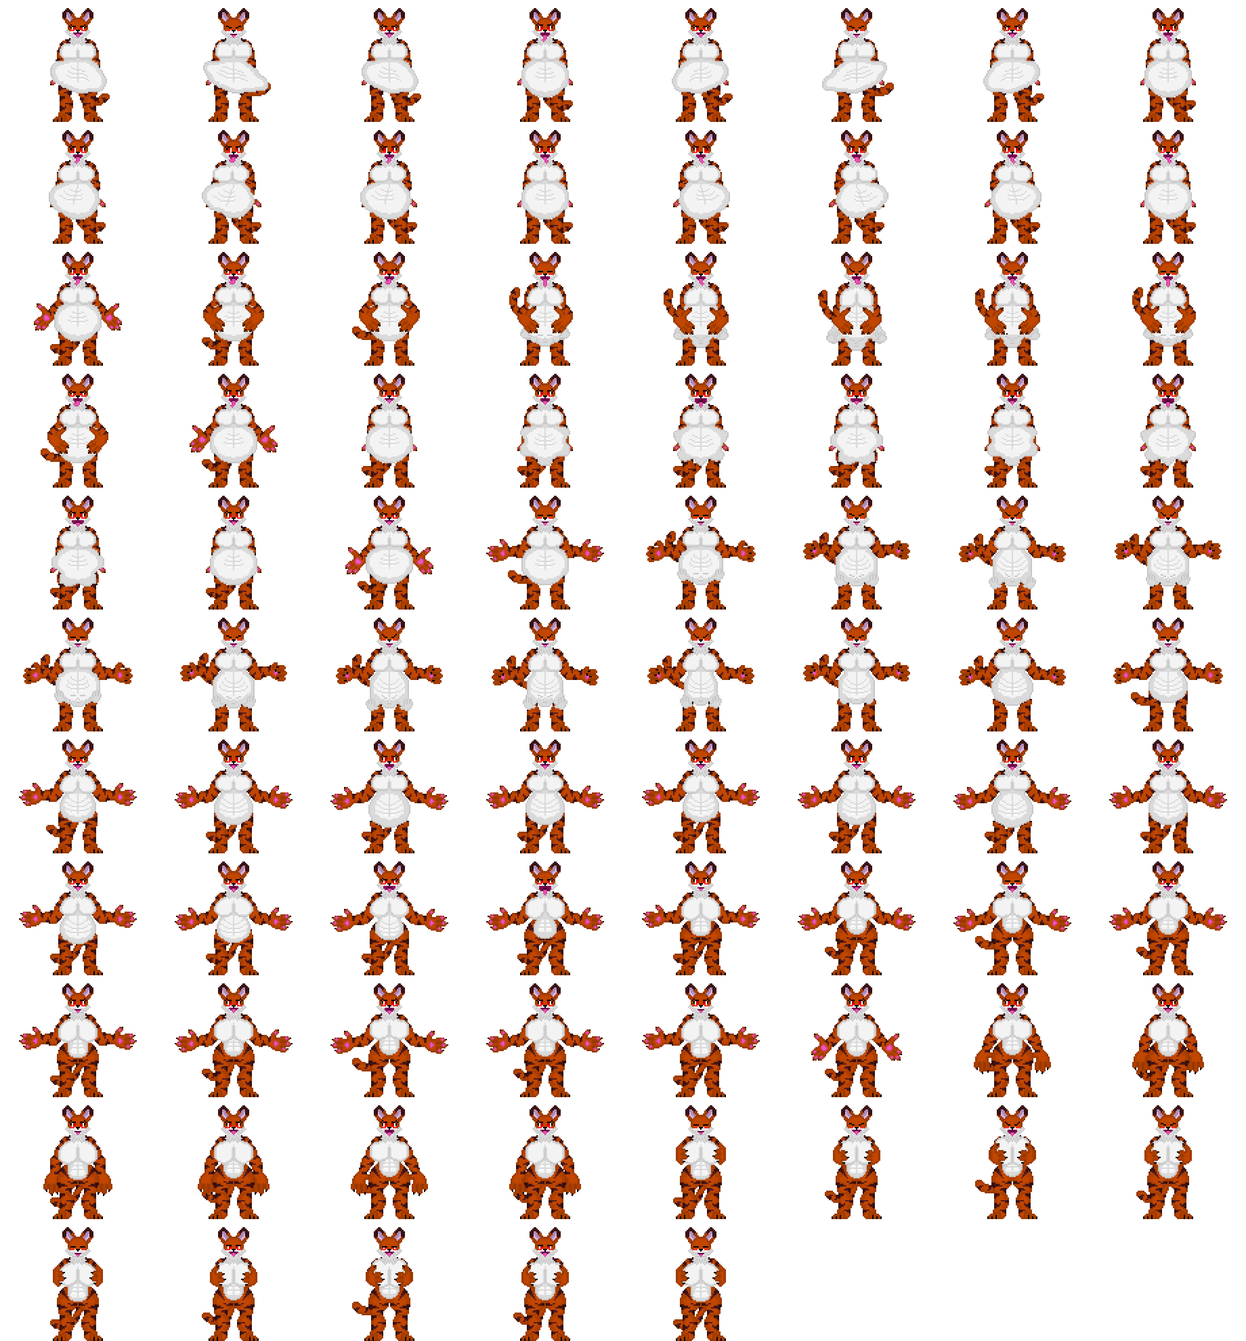
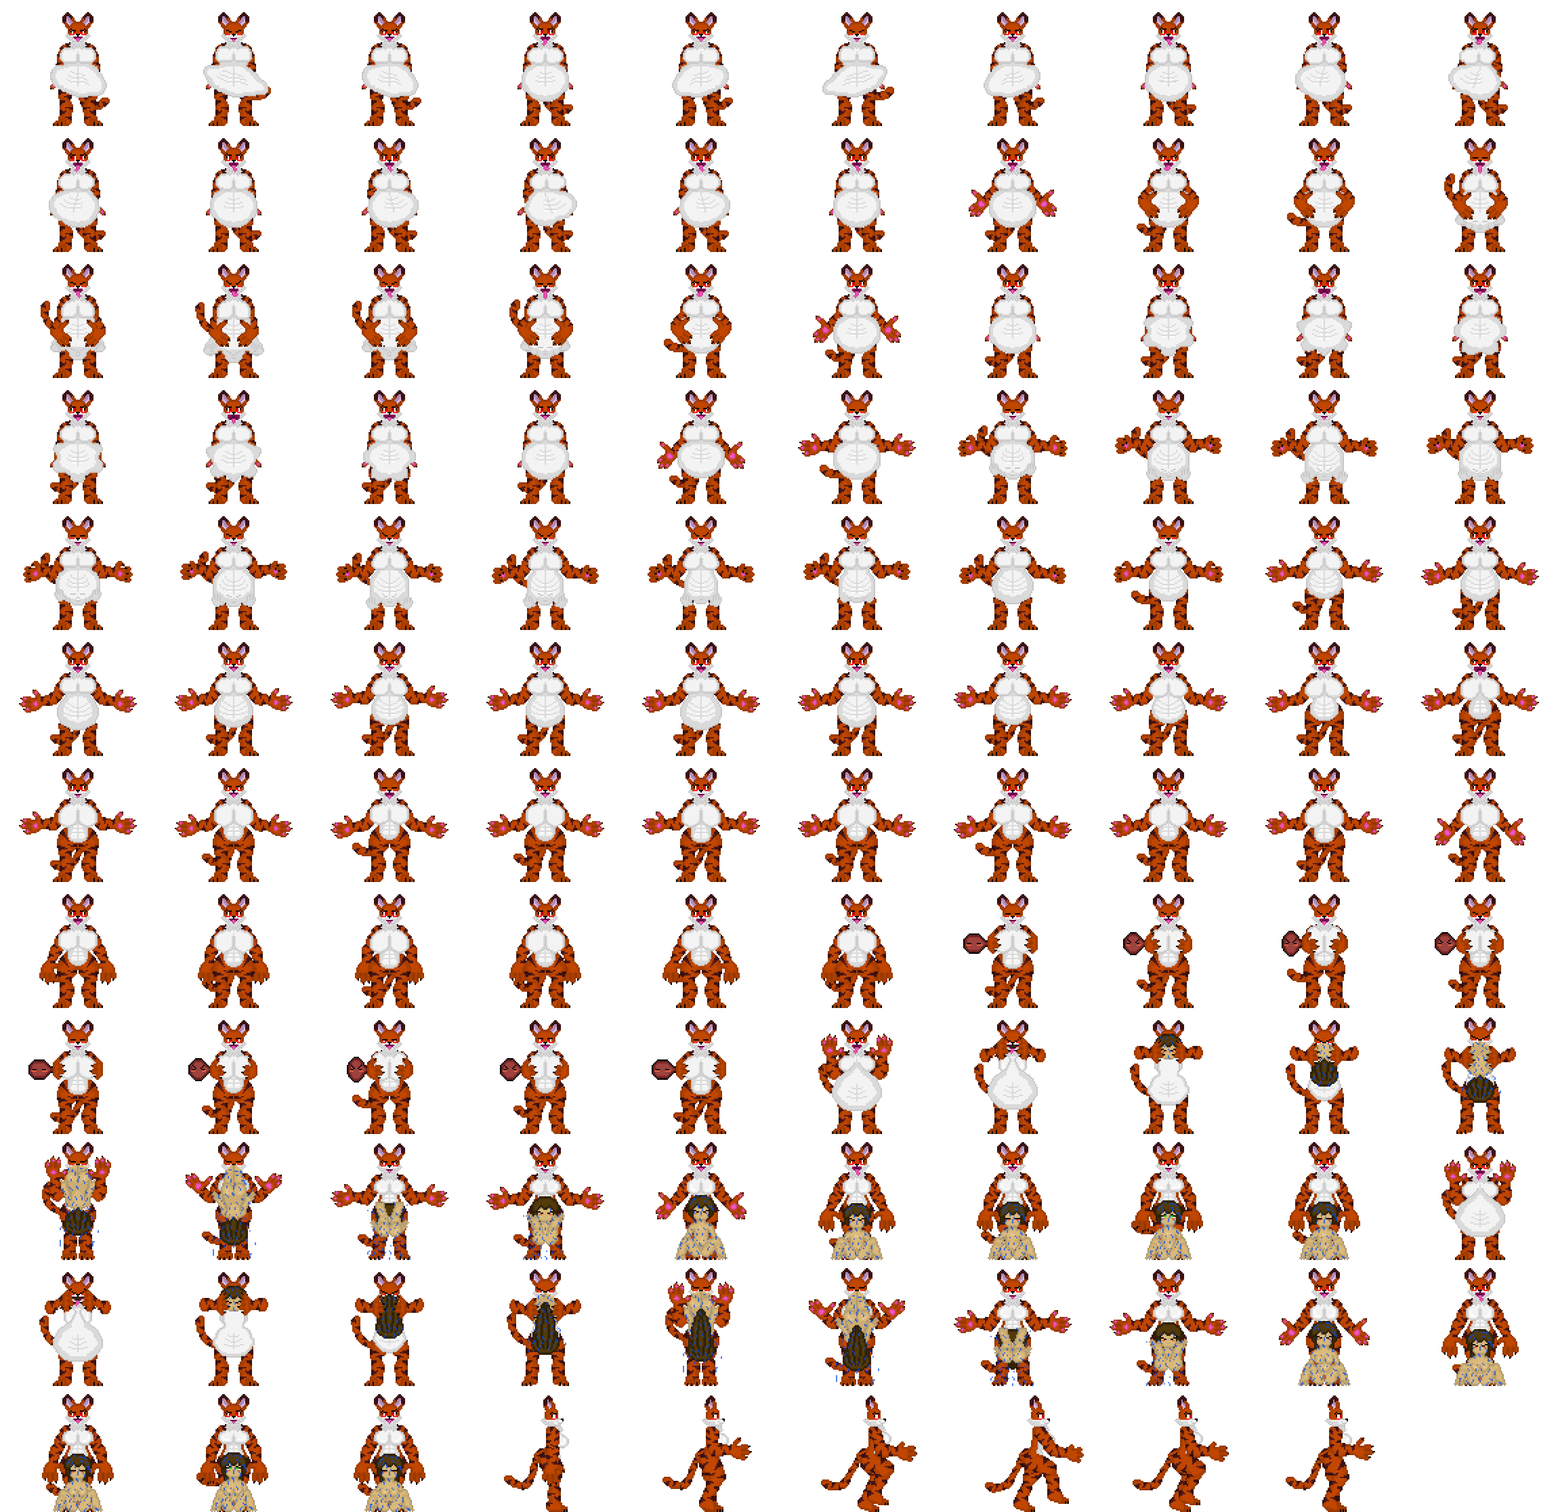
beginning work on tiger rework.

diff --git a/scripts/enemyScripts/tiger.js b/scripts/enemyScripts/tiger.js
@@ -37,6 +37,15 @@ class tiger extends enemy {
 
         this.tigerIsEating = false;
         this.tigerHasEatenRabbit = false;
+
+        this.grabTimer = false;
+
+         //make a hitbox so the cat can grab the player.
+         this.grabHitBox = new hitBoxes(scene,this.x,this.y);
+         this.grabHitBox.setSize(45,10,true);
+         this.hitboxActive = false;
+         this.attemptingGrab = false;
+         this.isPlayingMissedAnims = false;
         
     
         //defines tiger animations based on the players sex.
@@ -60,6 +69,10 @@ class tiger extends enemy {
         this.anims.create({ key: 'tigerSwallowFemaleRabbit', frames: this.anims.generateFrameNames('tigerFemaleExtension', { start: 61, end: 67 }), frameRate: 12, repeat: 0 });
         this.anims.create({ key: 'tigerSwallowRabbitMiddle', frames: this.anims.generateFrameNames('tigerFemaleExtension', { start: 17, end: 26 }), frameRate: 12, repeat: 0 });
         this.anims.create({ key: 'tigerDigestRabbit', frames: this.anims.generateFrameNames('tigerFemaleExtension', { start: 102, end: 116 }), frameRate: 7, repeat: 0 });
+
+        this.anims.create({ key: 'tigerStartGrab', frames: this.anims.generateFrameNames('tigerFemaleDigestion', { start: 113, end: 115}), frameRate: 8, repeat: 0 });
+        this.anims.create({ key: 'tigerMissGrab', frames: this.anims.generateFrameNames('tigerFemaleDigestion', { start: 116, end: 118}), frameRate: 8, repeat: 0 });
+
         //male animations
         if (sex === 0) {
             this.anims.create({ key: 'tigerGrab', frames: this.anims.generateFrameNames('tigerFemale', { start: 46, end: 59 }), frameRate: 7, repeat: 0 });
@@ -73,6 +86,8 @@ class tiger extends enemy {
             this.anims.create({ key: 'tigerBoobaHump2', frames: this.anims.generateFrameNames('tigerFemaleExtension', { start: 44, end: 47 }), frameRate: 12, repeat: -1 });
             this.anims.create({ key: 'tigerBoobaCurse', frames: this.anims.generateFrameNames('tigerFemaleExtension', { start: 48, end: 56 }), frameRate: 7, repeat: 0 });
             this.anims.create({ key: 'tigerCubGameover', frames: this.anims.generateFrameNames('tigerFemaleExtension', { start: 57, end: 60 }), frameRate: 7, repeat: -1 });
+
+            this.anims.create({ key: 'tigerSplitUpPlayer', frames: this.anims.generateFrameNames('tigerFemaleDigestion', { start: 85, end: 98}), frameRate: 7, repeat: 0 });
         //female animations    
         } else if(sex === 1) {
             this.anims.create({ key: 'tigerGrab', frames: this.anims.generateFrameNames('tigerFemale', { start: 72, end: 85 }), frameRate: 7, repeat: 0 });
@@ -86,6 +101,8 @@ class tiger extends enemy {
             this.anims.create({ key: 'tigerBoobaHump2', frames: this.anims.generateFrameNames('tigerFemaleExtension', { start: 85, end: 88 }), frameRate: 12, repeat: -1 });
             this.anims.create({ key: 'tigerBoobaCurse', frames: this.anims.generateFrameNames('tigerFemaleExtension', { start: 89, end: 97 }), frameRate: 7, repeat: 0 });
             this.anims.create({ key: 'tigerCubGameover', frames: this.anims.generateFrameNames('tigerFemaleExtension', { start: 98, end: 101 }), frameRate: 7, repeat: -1 });
+
+            this.anims.create({ key: 'tigerSplitUpPlayer', frames: this.anims.generateFrameNames('tigerFemaleDigestion', { start: 99, end: 112}), frameRate: 7, repeat: 0 });
         
         }
         //this.anims.create({ key: 'tigerStruggleBreakRight', frames: this.anims.generateFrameNames('tigerFemale', { start: 58, end: 62 }), frameRate: 7, repeat: -1 });
@@ -103,6 +120,7 @@ class tiger extends enemy {
         this.anims.create({ key: 'tigerTummyRestArms', frames: this.anims.generateFrameNames('tigerFemaleDigestion', { start: 172-103, end: 173-103 }), frameRate: 7, repeat: 0 });
         this.anims.create({ key: 'tigerTummyrelax3', frames: this.anims.generateFrameNames('tigerFemaleDigestion', { start: 174-103, end: 178-103 }), frameRate: 7, repeat: -1 });
         this.anims.create({ key: 'tigerTummybreastSquish', frames: this.anims.generateFrameNames('tigerFemaleDigestion', { start: 179-103, end: 186-103 }), frameRate: 5, repeat: -1 });
+        
 
         this.inSafeMode = inSafeMode;
 
@@ -126,19 +144,71 @@ class tiger extends enemy {
 
         //if the tiger is hungry then
         if(this.tigerHasEatenRabbit === false){
+
             if(this.tigerIsEating === true){
                 this.setVelocityX(0);
     
             }else if(this.isHidding === false && this.tigerIsEating === false){
-    
+                
+                //console.log("this.grabTimer: ",this.grabTimer," this.attemptingGrab:",this.attemptingGrab );
                 //console.log("this.body.blocked.down: ",this.body.blocked.down,"this.jumped: ",this.jumped,"this.jumpAnimationPlayed: ",this.jumpAnimationPlayed,);
     
                 //checks to see if enemy is in range of player
-                if (this.scene.player1.x > this.x - 600 && this.scene.player1.x < this.x + 600) {
+                if (this.checkXRangeFromPlayer(600, 600)) {
                     
+                    if(this.body.blocked.down && (this.checkXRangeFromPlayer(40, 40) && this.checkYRangeFromPlayer(20,50) && this.grabTimer === false && this.jumped === false)){
+                        
+                        console.log("starting grab animation");
+                        //play animation
+                        this.setVelocityX(0);
+                        this.grabTimer = true;
         
+                        //if player to the left move the grab hitbox to the left
+                        if(this.scene.player1.x < this.x){
+                            this.flipX = true;
+                        }else{
+                            this.flipX = false;
+                        }
+    
+                        this.setDepth(7);
+                        if (!this.jumpAnimationPlayed) {
+                            this.jumpAnimationPlayed = true;
+                            this.anims.play('tigerStartGrab').once('animationcomplete', () => {
+                                
+                                this.playJumpySound('3',700);
+        
+                                this.hitboxActive = true;
+                                this.grabHitBox.body.enable = true;
+                                this.attemptingGrab = true;
+                                
+                                this.jumpAnimationPlayed = false;
+                                //controls the x velocity when the bee ischarging to grab the player
+                                
+                            });
+                        }
+    
+                    }else if(this.body.blocked.down && this.attemptingGrab === true  && this.jumped === false ){
+
+                        console.log("grab animation missed");
+    
+                        if(this.isPlayingMissedAnims === false){
+                            this.isPlayingMissedAnims = true;
+                            //set value to play missed grabb animation
+                            
+                            this.anims.play('tigerMissGrab').once('animationcomplete', () => {
+                                this.setDepth(5);
+                                this.hitboxActive = false;
+                                this.attemptingGrab = false;
+                                this.grabTimer = false;
+                                this.isPlayingMissedAnims = false;    
+                            });
+                        }
+                    
                     //if the player is out of range of the player in the y axis, then taunt player.
-                    if(this.body.blocked.down && this.y-100 > this.scene.player1.y && this.taunting === false){
+                    }else if(this.body.blocked.down && this.y-100 > this.scene.player1.y && this.taunting === false && this.grabTimer === false){
+
+                        console.log("player too high so tiger is taunting");
+
                         //set taunting to true
                         this.taunting = true;
                         //stop velocity
@@ -149,9 +219,11 @@ class tiger extends enemy {
                         });
     
                     //if the player is to the right and above tiger then jump towards the player
-                    }else if(this.body.blocked.down && this.y > this.scene.player1.y && this.x < this.scene.player1.x && this.jumped === false && this.taunting === false) {
+                    }else if(this.body.blocked.down && this.y > this.scene.player1.y && this.x < this.scene.player1.x && this.jumped === false && this.taunting === false && this.grabTimer === false) {
                         //console.log("jumping right")
-                        
+
+                        console.log("tiger is jumping right");
+
                         this.jumped = true;
                           
                         if (!this.jumpAnimationPlayed) {
@@ -165,11 +237,13 @@ class tiger extends enemy {
                                 if(this.tigerIsEating === false){
                                 this.setVelocityY(250*-1);
                                 }
-                            
+                                this.grabTimer = false;
                                 let currentTiger = this;
                                 setTimeout(function () {
                                     currentTiger.jumped = false;
-                                    currentTiger.setVelocityX(310);
+                                    if(currentTiger.playerGrabbed === false && currentTiger.grabTimer === false){
+                                        currentTiger.setVelocityX(310);
+                                    }
                                 }, 160);
     
                                 this.anims.play('tigerInAir');
@@ -179,9 +253,11 @@ class tiger extends enemy {
                         }
     
                     //if the player is to the right and above tiger then jump towards the player
-                    }else if(this.body.blocked.down && this.y > this.scene.player1.y  && this.x > this.scene.player1.x && this.jumped === false && this.taunting === false) {
+                    }else if(this.body.blocked.down && this.y > this.scene.player1.y  && this.x > this.scene.player1.x && this.jumped === false && this.taunting === false && this.grabTimer === false ) {
                         //console.log("jumping left")
                         
+                        console.log("tiger is jumping left");
+
                         this.jumped = true;
                            
                         if (!this.jumpAnimationPlayed) {
@@ -194,11 +270,14 @@ class tiger extends enemy {
                                 if(this.tigerIsEating === false){
                                     this.setVelocityY(250*-1);
                                 }
-                            
+                                
+                                this.grabTimer = false;
                                 let currentTiger = this;
                                 setTimeout(function () {
+                                    if(currentTiger.playerGrabbed === false && currentTiger.grabTimer === false){
+                                        currentTiger.setVelocityX(310*-1);
+                                    }
                                     currentTiger.jumped = false;
-                                    currentTiger.setVelocityX(310*-1);
                                 }, 160);
     
                                 this.anims.play('tigerInAir');
@@ -208,8 +287,10 @@ class tiger extends enemy {
                         }
     
                     //if the player is to the right then move enemy to the right
-                    }else if(this.body.blocked.down && this.scene.player1.x > this.x+10 && this.taunting === false) {
-                            
+                    }else if(this.body.blocked.down && this.scene.player1.x > this.x+10 && this.taunting === false && this.grabTimer === false) {
+                        
+                        console.log("tiger is walking right");
+
                         this.direction = "right";
                         this.jumpAnimationPlayed = false; 
                         
@@ -218,8 +299,10 @@ class tiger extends enemy {
                         this.setVelocityX(310); 
                 
                     //if the player is to the right then move enemy to the left
-                    } else if (this.body.blocked.down && this.scene.player1.x < this.x-10 && this.taunting === false) {
+                    } else if (this.body.blocked.down && this.scene.player1.x < this.x-10 && this.taunting === false && this.grabTimer === false) {
                             
+                        console.log("tiger is walking left");
+
                         this.direction = "left";
                         this.jumpAnimationPlayed = false;
                         this.flipX = true;
@@ -227,8 +310,9 @@ class tiger extends enemy {
                         this.setVelocityX(310*-1); 
                         
                     //otherwise if the enemy is on the ground then
-                    } else if (this.body.blocked.down && this.taunting === false) {
-    
+                    } else if (this.body.blocked.down && this.taunting === false && this.grabTimer === false) {
+                        
+                        console.log("tiger is idling");
                         //player idle animation in the correct direction
                         if(this.direction === "left"){
                             this.flipX = true;
@@ -361,6 +445,26 @@ class tiger extends enemy {
                 this.setVelocityX(0);
             }
         }
+
+        //handles hit box positioning
+        if(this.hitboxActive === true){
+
+            //hitbox should be to left if player is to the left
+            if(this.flipX === true){
+                console.log("moving cat hitbox to the left");
+                this.grabHitBox.x = this.x-20;
+
+            //otherwise put it to the right.
+            }else{
+                console.log("moving cat hitbox to the right");
+                this.grabHitBox.x = this.x+20;
+            }
+            this.grabHitBox.y = this.y;
+
+        }else{
+            this.grabHitBox.x = this.x;
+            this.grabHitBox.y = this.y + 3000; 
+        }
         
         //updates the previous y value to tell if slime is falling or going up in its jump.
         this.tigerPreviousY = this.y;
@@ -369,6 +473,7 @@ class tiger extends enemy {
     //simple idle function played when the player is grabbed by something that isnt this enemy.
     moveIdle() {
         this.setVelocityX(0);
+        this.grabTimer = false;
         if(this.isHidding === false){
             //player idle animation in the correct direction 
             if(this.tigerHasEatenRabbit === false){
@@ -888,6 +993,8 @@ class tiger extends enemy {
                     this.playerGrabbed = false;
                     this.keyAnimationPlayed = false;
                     this.scene.player1.visible = true;
+                    this.isPlayingMissedAnims = false;
+                    this.grabTimer = false;
                     //player1.setSize(23, 68, true);
                     struggleEmitter.emit(struggleEvent.activateStruggleBar, false);
 

diff --git a/scripts/enemyScripts/blueSlime.js b/scripts/enemyScripts/blueSlime.js
@@ -350,6 +350,8 @@ class blueSlime extends enemy {
             //gets the hp value using a emitter
             healthEmitter.emit(healthEvent.returnHealth,playerHealthObject);
 
+            console.log("playerHealthObject: ",playerHealthObject);
+
             //makes the struggle bar visible
             struggleEmitter.emit(struggleEvent.activateStruggleBar, true);
             struggleEmitter.emit(struggleEvent.updateStruggleBarCap,100);
@@ -1420,7 +1422,9 @@ class blueSlime extends enemy {
                 });
                 currentSlime = this;
                 setTimeout(function () {
-                    currentSlime.scene.sound.get('plapSFX').stop();
+                    if(currentSlime.scene.sound.get("plapSFX") !== null && currentSlime.scene.sound.get("plapSFX") !== undefined){
+                        currentSlime.scene.sound.get("plapSFX").stop();
+                    }
                     currentSlime.scene.initSoundEffect('curseSFX','curse',0.3);
 
                     //display the curselight when player is cursed.
@@ -1506,10 +1510,6 @@ class blueSlime extends enemy {
             //gets the hp value using a emitter
             healthEmitter.emit(healthEvent.returnHealth,playerHealthObject);
         
-            // if the player is properly grabbed then change some attribute of thep lay to get there hitbox out of the way.
-            
-            // deals damage to the player. should remove the last part of the ifstatement once small defeated animation function is implemented.
-            
             //if the player is not defeated
             if (this.playerProgressingAnimation === false) {
 

diff --git a/scripts/sceneScripts/sceneHirarchy/G6InitEnemys.js b/scripts/sceneScripts/sceneHirarchy/G6InitEnemys.js
@@ -434,9 +434,10 @@ class G6InitEnemys extends G5InitNPCs{
 
     //apply movement logic if there is any. controls player movement to have them walk toward the enemy that they got infatuated by.
     //only use this logic if we are done having the player huff and puff.
+    //console.log("this.player1.mainHitbox.body.blocked.down :",this.player1.mainHitbox.body.blocked.down,"this.knockdownDelay: ",this.knockdownDelay );
     if(this.playerStuckGrabbedBy ==="knockdown" && this.knockdownDelay === true){
       this.player1.StuckRepeat('knockdownStruggle');
-
+      this.player1.mainHitbox.setVelocityX(0);
 
     }else if(this.playerStuckGrabbedBy ==="knockdown" && this.knockdownDelay === false){
 
@@ -446,7 +447,6 @@ class G6InitEnemys extends G5InitNPCs{
 
       }
       //use the enemy to tell where the player should be flung
-      //console.log("this.enemyThatknockdownPlayer.flipX: ",this.enemyThatknockdownPlayer.flipX, " this.player1.isDown: ",this.player1.mainHitbox.body.blocked.down);
       if(this.enemyThatknockdownPlayer.flipX === true && this.player1.mainHitbox.body.blocked.down === false){
         //fling player left
         this.player1.mainHitbox.setVelocityX(-140);

diff --git a/scripts/playerScripts/player.js b/scripts/playerScripts/player.js
@@ -880,7 +880,7 @@ healthEmitter.emit(healthEvent.returnHealth,playerHealthObject);
             }
             this.pierceDamage = 6;
             this.setAttackHitboxSize(60,30);
-            this.HitBox(800,35);
+            this.HitBox(400,35);
             break;
             case (3):
             if(this.playedAttackAnimation === false){
@@ -898,7 +898,7 @@ healthEmitter.emit(healthEvent.returnHealth,playerHealthObject);
             this.pierceDamage = 4;
             this.curseDamage = 4;
             this.setAttackHitboxSize(60,30);
-            this.HitBox(800,35);
+            this.HitBox(400,35);
             break;
           default:
             console.log("attacking animation unarmed");

diff --git a/scripts/sceneScripts/sceneHirarchy/G9CheckEnemys.js b/scripts/sceneScripts/sceneHirarchy/G9CheckEnemys.js
@@ -270,7 +270,7 @@ class G9CheckEnemys extends G8CheckNPCS {
       
 
       //adds collider between player and slime. then if they collide it plays the grab sequence but only if the player was not grabbed already
-      scene.physics.add.overlap(scene.player1.mainHitbox, tempTiger, function () {
+      scene.physics.add.overlap(scene.player1.mainHitbox, tempTiger.grabHitBox, function () {
         if(tempTiger.tigerIsEating === false){
           //make a temp object
           let isWindowObject = {

diff --git a/scripts/uiScripts/inventoryScripts/bestiary.js b/scripts/uiScripts/inventoryScripts/bestiary.js
@@ -350,7 +350,7 @@ class bestiary extends Phaser.Physics.Arcade.Sprite {
   }
   //function that sets the visibility of the text character groups correctly.
   displayBestiaryText(isVisible) {
-    console.log("setting text tovisible: ", isVisible);
+    //console.log("setting text tovisible: ", isVisible);
 
     if (isVisible === true && this.bestiaryTitle[0].visible === false || isVisible === false && this.bestiaryTitle[0].visible === true) {
       this.titleCharacters.toggleVisible();

diff --git a/scripts/titleScripts/femaleIcon.js b/scripts/titleScripts/femaleIcon.js
@@ -49,7 +49,8 @@ class femaleIcon extends Phaser.Physics.Arcade.Sprite{
                 playerSkillsData:  null,
                 playerSaveSlotData: null,
                 flagValues: null,
-                settings:null
+                settings:null,
+                playerCurseValue:null
               };
 
             //sets value to true, so scene knows to send the player through the intro cutscene

diff --git a/scripts/titleScripts/maleIcon.js b/scripts/titleScripts/maleIcon.js
@@ -48,7 +48,8 @@ class maleIcon extends Phaser.Physics.Arcade.Sprite{
                 playerSkillsData:  null,
                 playerSaveSlotData: null,
                 flagValues: null,
-                settings:null
+                settings:null,
+                playerCurseValue:null
               };
 
             //sets value to true, so scene knows to send the player through the intro cutscene

diff --git a/scripts/sceneScripts/sceneHirarchy/A1SaveAndLoad.js b/scripts/sceneScripts/sceneHirarchy/A1SaveAndLoad.js
@@ -470,6 +470,7 @@ for(let counter = 0; counter < 100; counter++){
   playerObject.flagValues = gameFlags;
   playerObject.settings = settings;
   playerObject.dreamReturnLocation = dreamReturnLocation;
+  playerObject.playerCurseValue = 0;
   }
 
   //function to fix dave file if the file is broken or outdated.

diff --git a/index.html b/index.html
@@ -186,7 +186,7 @@
           default: 'arcade',
           arcade: {
             // debug is excelent for testing velocity and hitboxes.
-            debug: false
+            debug: true
           }
         },
         // loads animated tile plugin?
